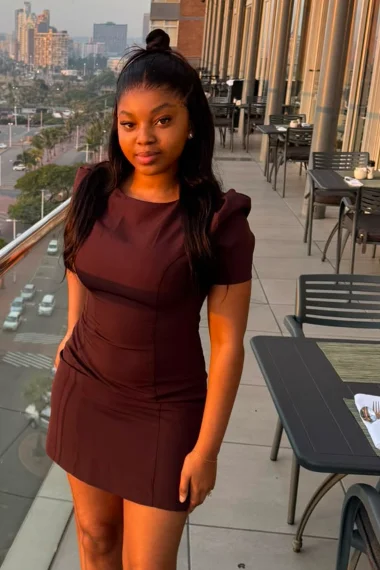
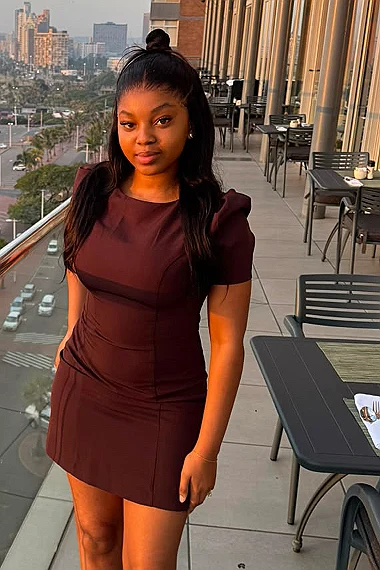
Sharpen and widen the team portraits
Brandon's team portrait was cut from a 720px-wide region of the source
frame and displayed at 380 CSS pixels, so on any high-density screen it
was being asked for more detail than it held, and the tight crop
magnified the softness of the original phone photograph.

- Widen his crop to a 1050px region of the source, framing head to
  thigh instead of head to waist. More of the original sensor data per
  displayed pixel is what actually resolves the blur.
- Serve 480w, 760w and 1050w instead of 480w and 720w, so a 2x screen
  gets 760 and a 3x phone gets 1050 rather than upscaling 720.
- Resample by progressive halving rather than one large drawImage,
  then apply an unsharp mask to restore the acutance that downscaling
  removes. This is a local contrast filter: no detail is invented and
  no feature is altered.
- Regenerate Zenande's portrait through the same pipeline at the same
  crop, so the pair stays matched. Her framing was not changed.

Claude-Session: https://claude.ai/code/session_01R2PNS5gpDnmG28L5VDAejU

diff --git a/public/about.html b/public/about.html
@@ -173,8 +173,8 @@
     <div class="founders-grid">
       <article>
         <picture>
-          <source type="image/webp" srcset="/assets/brandon-burnworth-portrait-480.webp 480w, /assets/brandon-burnworth-portrait-720.webp 720w" sizes="(max-width:900px) 100vw, 380px">
-          <img class="founder-headshot" src="/assets/brandon-burnworth-portrait-480.jpg" srcset="/assets/brandon-burnworth-portrait-480.jpg 480w, /assets/brandon-burnworth-portrait-720.jpg 720w" sizes="(max-width:900px) 100vw, 380px" width="720" height="1080" alt="Brandon Burnworth, founder of Burnworth Co." loading="lazy" decoding="async">
+          <source type="image/webp" srcset="/assets/brandon-burnworth-portrait-480.webp 480w, /assets/brandon-burnworth-portrait-760.webp 760w, /assets/brandon-burnworth-portrait-1050.webp 1050w" sizes="(max-width:900px) 100vw, 380px">
+          <img class="founder-headshot" src="/assets/brandon-burnworth-portrait-480.jpg" srcset="/assets/brandon-burnworth-portrait-480.jpg 480w, /assets/brandon-burnworth-portrait-760.jpg 760w, /assets/brandon-burnworth-portrait-1050.jpg 1050w" sizes="(max-width:900px) 100vw, 380px" width="1050" height="1575" alt="Brandon Burnworth, founder of Burnworth Co." loading="lazy" decoding="async">
         </picture>
         <p class="founder-role">Founder &middot; Strategy &amp; Build</p>
         <h3>Brandon Burnworth</h3>
